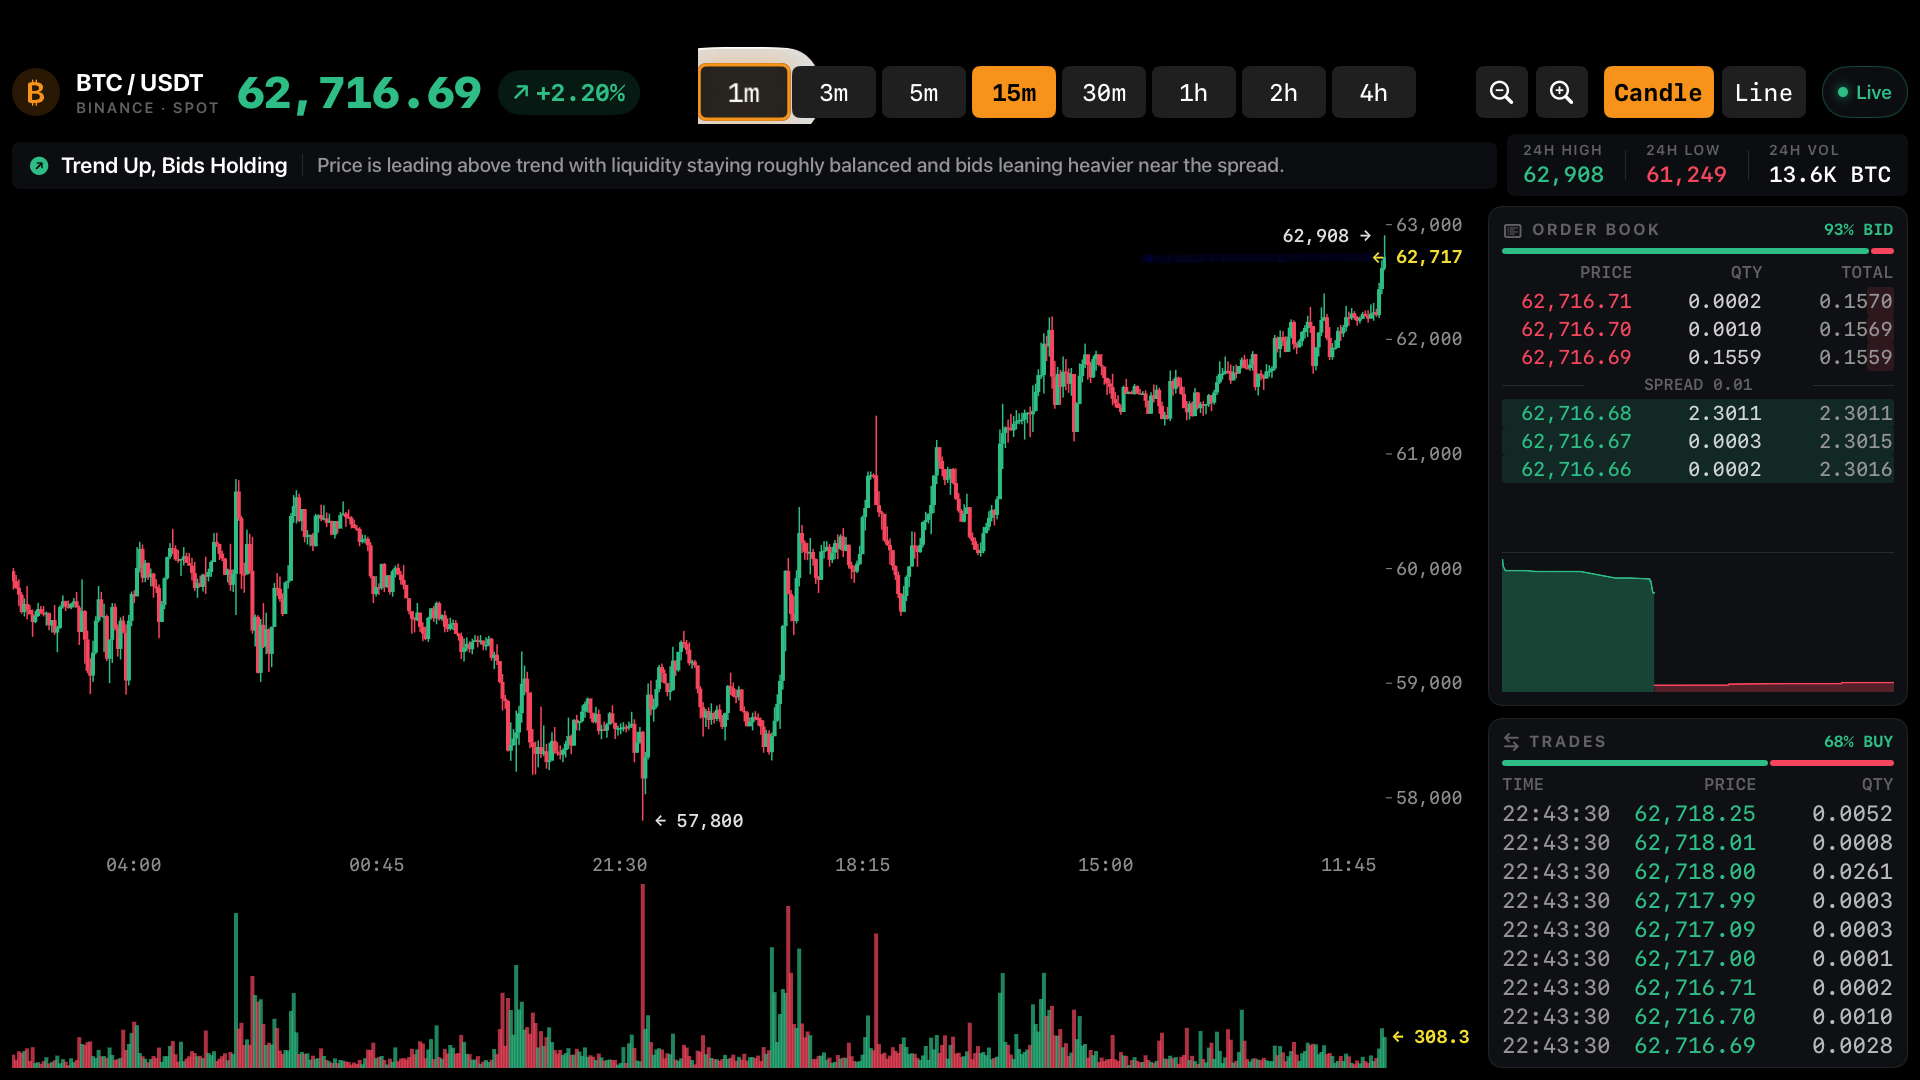
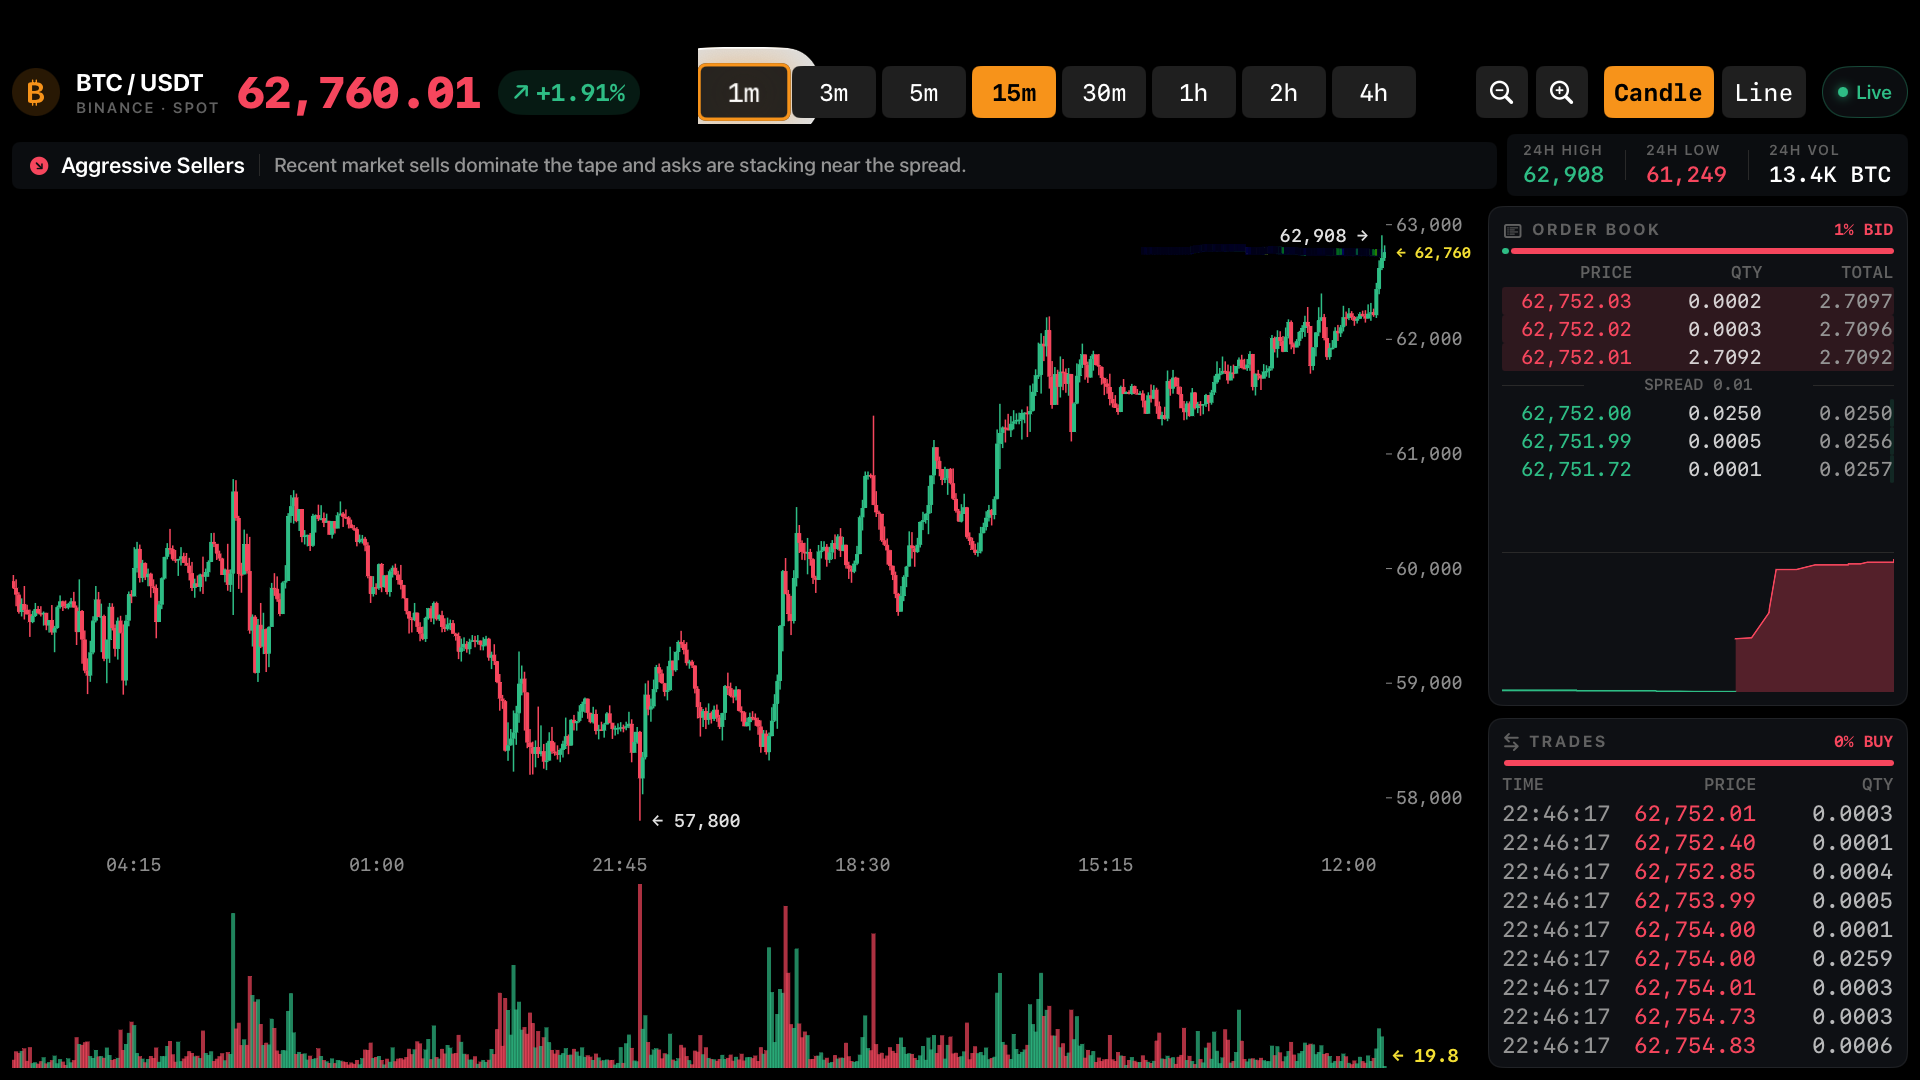
fix(chart): move live-price arrow into the axis column
Draw the ← as part of the yellow axis label instead of inside the chart
canvas — the last candle's slot touches the canvas edge, so any in-canvas
arrow overlapped wide candle bodies at higher zoom levels.

diff --git a/Sources/Views/ChartMarkersOverlayView.swift b/Sources/Views/ChartMarkersOverlayView.swift
@@ -1,15 +1,13 @@
 import SwiftUI
 
-/// Terminal-style price annotations drawn over the candlestick canvas:
+/// Terminal-style extreme annotations drawn over the candlestick canvas:
+/// the highest high and lowest low of the visible klines, labeled beside the
+/// candle that set them ("62,660 →" / "← 61,333"). The label sits on whichever
+/// side of the candle has more room, with the arrow pointing at the wick tip.
 ///
-/// - **Current price**: a yellow ← arrow at the last close's Y position,
-///   hugging the chart's right edge and pointing at the last candle from the
-///   axis side — visually continuing the yellow price label drawn by
-///   `PriceAxisView` in the axis column beside it.
-/// - **Visible-range extremes**: the highest high and lowest low of the visible
-///   klines, labeled beside the candle that set them ("62,660 →" / "← 61,333").
-///   The label sits on whichever side of the candle has more room, with the
-///   arrow pointing at the wick tip.
+/// The live-price marker ("← 62,716" in yellow) is drawn by `PriceAxisView`
+/// in the axis column — outside this canvas — so it can never overlap the
+/// last candle regardless of zoom level.
 ///
 /// Shares `priceMin` / `priceRange` with the candle canvas so all Y positions
 /// are pixel-identical.
@@ -37,7 +35,6 @@ struct ChartMarkersOverlayView: View {
     private static let labelGap: CGFloat = 12
 
     var body: some View {
-        let currentClose = klines.last?.close
         let extremes = showsExtremes ? computeExtremes() : []
 
         Canvas { context, size in
@@ -45,17 +42,6 @@ struct ChartMarkersOverlayView: View {
 
             let layout = CandleLayout(count: klines.count, width: size.width)
             let scale = PriceScale(priceMin: priceMin, priceRange: priceRange)
-
-            // ── Current price arrow at the right edge ──────────────────
-            // Same text-arrow style as the extremes labels, in terminal-
-            // yellow, pointing at the last candle from the axis side.
-            if let currentClose {
-                let y = scale.y(currentClose, in: size.height)
-                let arrow = Text("←")
-                    .font(Self.labelFont)
-                    .foregroundColor(AppTheme.markerYellow)
-                context.draw(arrow, at: CGPoint(x: size.width - 2, y: y), anchor: .trailing)
-            }
 
             // ── Visible-range high / low labels ────────────────────────
             for extreme in extremes {

diff --git a/Sources/Views/PriceAxisView.swift b/Sources/Views/PriceAxisView.swift
@@ -62,11 +62,11 @@ struct PriceAxisView: View {
                 }
 
                 // Live price in terminal-yellow, drawn over the ticks with an
-                // opaque backing so it stays legible. Continues the yellow
-                // arrowhead `ChartMarkersOverlayView` draws at the chart edge.
+                // opaque backing so it stays legible. The ← points at the last
+                // candle from the axis column, so it never overlaps the chart.
                 if let currentPrice {
                     let y = scale.y(currentPrice, in: size.height)
-                    Text(Self.formatPrice(CGFloat(NSDecimalNumber(decimal: currentPrice).doubleValue)))
+                    Text("← \(Self.formatPrice(CGFloat(NSDecimalNumber(decimal: currentPrice).doubleValue)))")
                         .font(.system(size: 18, weight: .bold, design: .monospaced))
                         .foregroundStyle(AppTheme.markerYellow)
                         .lineLimit(1)
